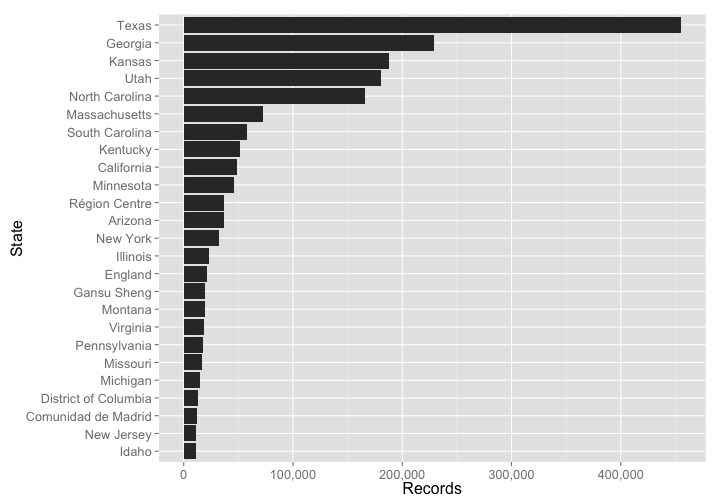
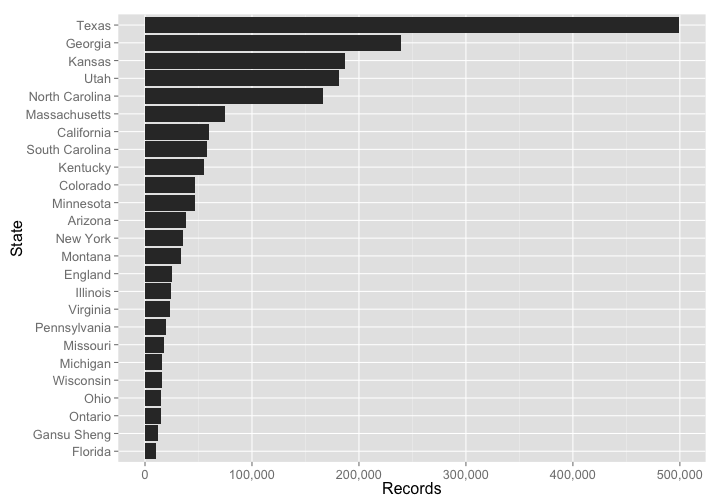
update readme

diff --git a/README.md b/README.md
@@ -41,21 +41,15 @@ Basic search
 items(q="fruit", page_size=5, fields=c("provider","creator"))
 #> $meta
 #>   found start returned
-#> 1 17954     0        5
+#> 1 18455     0        5
 #> 
 #> $data
-#>                        provider
-#> 1 Mountain West Digital Library
-#> 2   The New York Public Library
-#> 3   The New York Public Library
-#> 4   The New York Public Library
-#> 5       Smithsonian Institution
-#>                                                         creator
-#> 1 Huntington, Elfie, 1868-1949;Bagley, Joseph Daniel, 1874-1936
-#> 2                               Anderson, Alexander (1775-1870)
-#> 3                               Anderson, Alexander (1775-1870)
-#> 4                               Anderson, Alexander (1775-1870)
-#> 5                                                    no content
+#>                      provider                         creator
+#> 1 The New York Public Library Anderson, Alexander (1775-1870)
+#> 2 The New York Public Library Anderson, Alexander (1775-1870)
+#> 3 The New York Public Library Anderson, Alexander (1775-1870)
+#> 4 The New York Public Library Anderson, Alexander (1775-1870)
+#> 5 The New York Public Library Anderson, Alexander (1775-1870)
 #> 
 #> $facets
 #> list()
@@ -68,20 +62,20 @@ Limit fields returned
 items(q="fruit", page_size = 10, fields=c("publisher","format"))
 #> $meta
 #>   found start returned
-#> 1 17954     0       10
+#> 1 18455     0       10
 #> 
 #> $data
-#>                    format  publisher
-#> 1              no content no content
-#> 2              no content no content
-#> 3              no content no content
-#> 4              no content no content
-#> 5              no content no content
-#> 6  Block-printed on paper no content
-#> 7              no content no content
-#> 8              no content no content
-#> 9              no content no content
-#> 10             no content no content
+#>        format  publisher
+#> 1  no content no content
+#> 2  no content no content
+#> 3  no content no content
+#> 4  no content no content
+#> 5  no content no content
+#> 6  no content no content
+#> 7  no content no content
+#> 8  no content no content
+#> 9  no content no content
+#> 10 no content no content
 #> 
 #> $facets
 #> list()
@@ -94,12 +88,12 @@ Limit records returned
 items(q="fruit", page_size=2, fields=c("provider","title"))
 #> $meta
 #>   found start returned
-#> 1 17954     0        2
+#> 1 18455     0        2
 #> 
 #> $data
-#>      title                      provider
-#> 1  [Fruit] Mountain West Digital Library
-#> 2 [Fruit.]   The New York Public Library
+#>      title                    provider
+#> 1 [Fruit.] The New York Public Library
+#> 2 [Fruit.] The New York Public Library
 #> 
 #> $facets
 #> list()
@@ -112,13 +106,13 @@ Search by date
 items(q="science", date_before=1900, page_size=10, fields=c("id","date"))
 #> $meta
 #>   found start returned
-#> 1 29773     0       10
+#> 1 33822     0       10
 #> 
 #> $data
 #>                                  id        date
 #> 1  2289f4cbee338d3ee22472084399d0c1       1880-
-#> 2  3bc189a6c3061bd9c2005e67150d4b5a        1880
-#> 3  855407956475c37b086fa7603aa29038        1880
+#> 2  855407956475c37b086fa7603aa29038        1880
+#> 3  3bc189a6c3061bd9c2005e67150d4b5a        1880
 #> 4  afbea811bc274aac4a049828941c86e9        1880
 #> 5  e7c3b499f627d21910b4ebb4282f0bdc        1880
 #> 6  9f79e6f53dfd2f31a17d756a90f22e0b        1883
@@ -138,7 +132,7 @@ Search on specific fields
 items(description="obituaries", page_size=2, fields="description")
 #> $meta
 #>   found start returned
-#> 1 50367     0        2
+#> 1 50370     0        2
 #> 
 #> $data
 #> [1] "Obituaries of members"             
@@ -168,7 +162,7 @@ items(subject="yodeling", page_size=2, fields="subject")
 items(provider="HathiTrust", page_size=2, fields="provider")
 #> $meta
 #>     found start returned
-#> 1 1914614     0        2
+#> 1 2256684     0        2
 #> 
 #> $data
 #> [1] "HathiTrust" "HathiTrust"
@@ -184,7 +178,7 @@ Spatial search, across all spatial fields
 items(sp='Boston', page_size=2, fields=c("id","provider"))
 #> $meta
 #>   found start returned
-#> 1 26223     0        2
+#> 1 26608     0        2
 #> 
 #> $data
 #>                                 id                provider
@@ -202,7 +196,7 @@ Spatial search, by states
 items(sp_state='Massachusetts OR Hawaii', page_size=2, fields=c("id","provider"))
 #> $meta
 #>   found start returned
-#> 1 76401     0        2
+#> 1 79453     0        2
 #> 
 #> $data
 #>                                 id
@@ -224,7 +218,7 @@ items(facets=c("sourceResource.spatial.state","sourceResource.spatial.country"),
       page_size=0, facet_size=5)
 #> $meta
 #>     found start returned
-#> 1 8007019     0        0
+#> 1 8417029     0        0
 #> 
 #> $data
 #> NULL
@@ -233,29 +227,29 @@ items(facets=c("sourceResource.spatial.state","sourceResource.spatial.country"),
 #> $facets$sourceResource.spatial.state
 #> $facets$sourceResource.spatial.state$meta
 #>    type   total missing   other
-#> 1 terms 2243251 5965452 1026108
+#> 1 terms 2389889 6258289 1116685
 #> 
 #> $facets$sourceResource.spatial.state$data
 #>             term  count
-#> 1          Texas 454858
-#> 2        Georgia 228847
-#> 3         Kansas 187644
-#> 4           Utah 180276
-#> 5 North Carolina 165518
+#> 1          Texas 499096
+#> 2        Georgia 239498
+#> 3         Kansas 186704
+#> 4           Utah 181721
+#> 5 North Carolina 166185
 #> 
 #> 
 #> $facets$sourceResource.spatial.country
 #> $facets$sourceResource.spatial.country$meta
 #>    type   total missing  other
-#> 1 terms 2331589 5760256 344997
+#> 1 terms 2780550 5784677 441464
 #> 
 #> $facets$sourceResource.spatial.country$data
 #>                                                   term   count
-#> 1                                        United States 1770950
-#> 2 United Kingdom of Great Britain and Northern Ireland  105416
-#> 3                                   Republic of France   56512
-#> 4                          Federal Republic of Germany   30665
-#> 5                                  Repubblica Italiana   23049
+#> 1                                        United States 2142853
+#> 2 United Kingdom of Great Britain and Northern Ireland   56070
+#> 3                                               Canada   53377
+#> 4                                               France   49358
+#> 5                                              Germany   37428
 ```
 
 ### Search - collections
@@ -271,11 +265,11 @@ collections(q="university of texas", page_size=2)
 #> 
 #> $data
 #>                                 _rev                  ingestDate
-#> 1 1-b30e2458726b17265171946cae413252 2014-09-17T18:35:56.122352Z
-#> 2 1-85e81c05b7233e6d346e8f797d8aeb2f 2014-09-17T18:35:56.122352Z
-#>                                 id                             @context
-#> 1 63933324c0f7076604fef034362ce0cb http://dp.la/api/collections/context
-#> 2 d45deb62949c0b85354f5f4a31f268f1 http://dp.la/api/collections/context
+#> 1 2-ca0eead44e55ad18101fad94dcb0da30 2014-11-19T17:07:49.035876Z
+#> 2 2-ac756aeee030c9dc0249b05a5b84944f 2014-11-19T17:07:47.603442Z
+#>                               @context                               id
+#> 1 http://dp.la/api/collections/context 63933324c0f7076604fef034362ce0cb
+#> 2 http://dp.la/api/collections/context d45deb62949c0b85354f5f4a31f268f1
 #>                            title                 _id description
 #> 1            University of Texas   texas--partner:UT            
 #> 2 University of Texas at El Paso texas--partner:UTEP            
@@ -286,8 +280,8 @@ collections(q="university of texas", page_size=2)
 #> 1 http://dp.la/api/collections/63933324c0f7076604fef034362ce0cb
 #> 2 http://dp.la/api/collections/d45deb62949c0b85354f5f4a31f268f1
 #>   ingestionSequence     score validation_message valid_after_enrich
-#> 1                12 11.002326                 NA               TRUE
-#> 2                12  8.862748                 NA               TRUE
+#> 1                13 11.074110                 NA               TRUE
+#> 2                13  8.931333                 NA               TRUE
 ```
 
 You can also search in the `title` and `description` fields
@@ -319,8 +313,8 @@ collections(description="east")
 #> 1 http://dp.la/api/collections/40e1a1b275d18f21489c311b502c9bcc
 #> 2 http://dp.la/api/collections/6ac62738cc2c583eb5257b311a5ada80
 #>   ingestionSequence    score validation_message valid_after_enrich
-#> 1                13 4.560579                 NA               TRUE
-#> 2                13 1.596275                 NA               TRUE
+#> 1                13 4.637537                 NA               TRUE
+#> 2                13 1.612271                 NA               TRUE
 ```
 
 ### Visualize
